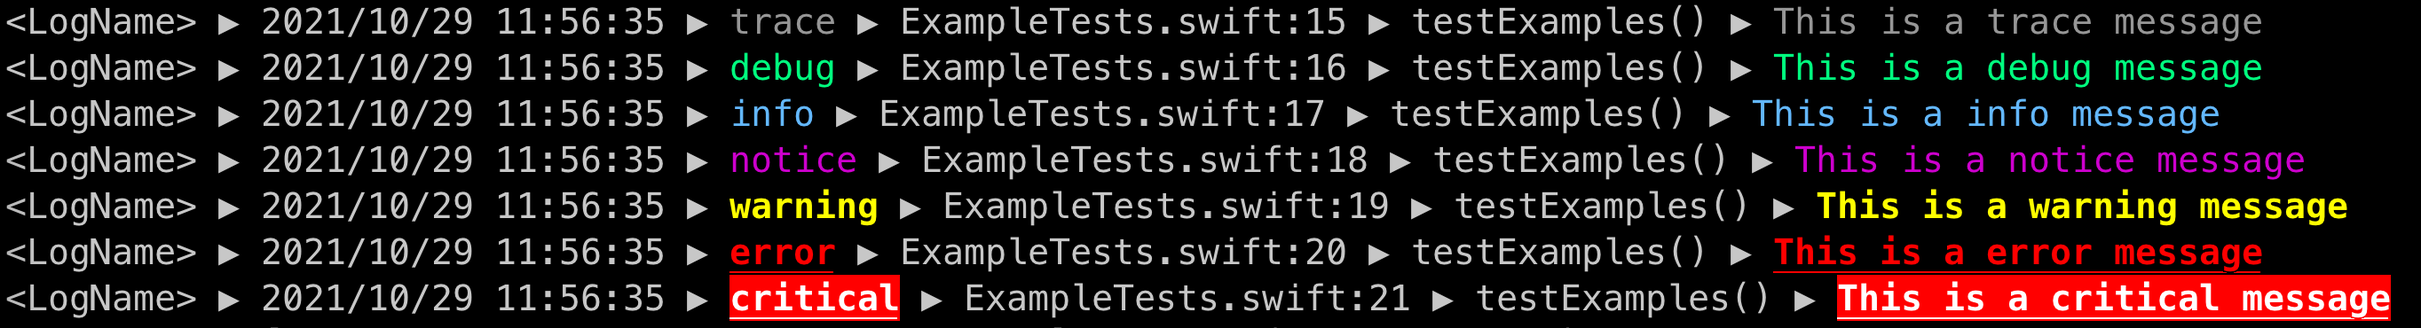
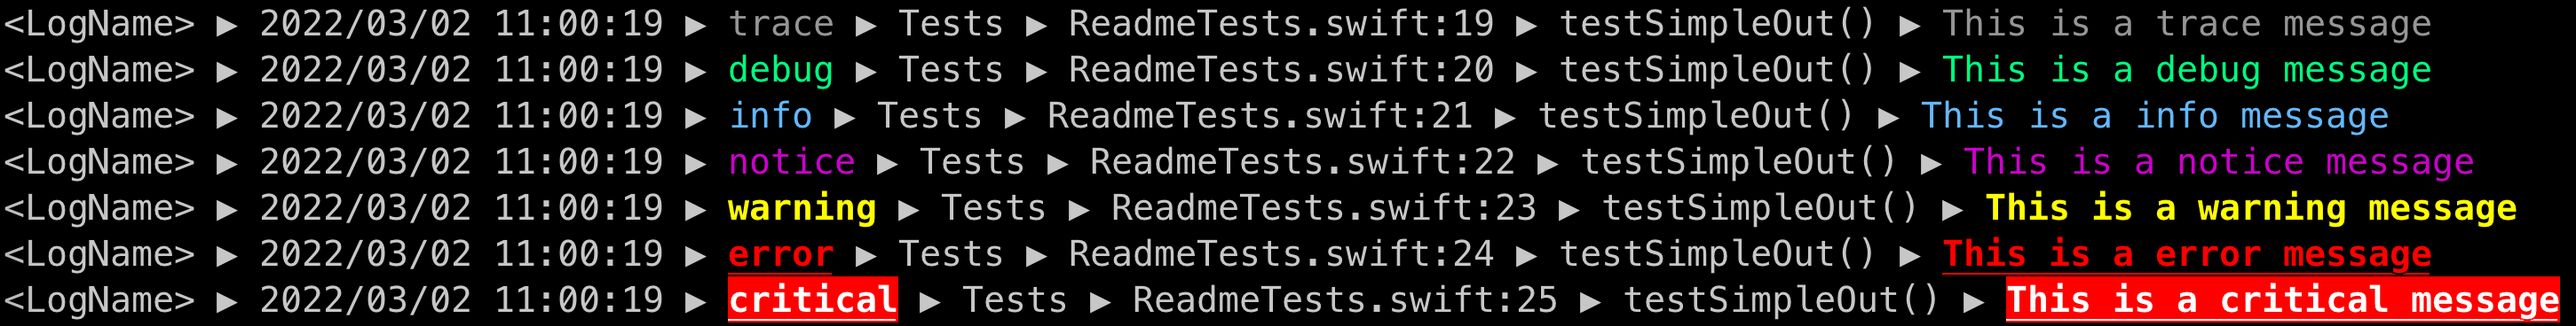
[DOC] : update string interpolation README

diff --git a/Tests/ReadmeTests.swift b/Tests/ReadmeTests.swift
@@ -1,0 +1,81 @@
+//
+// Created by Mengyu Li on 2022/3/2.
+//
+
+@testable import Senna
+import XCTest
+
+final class ReadmeTests: XCTestCase {
+    func testSimpleOut() {
+        // create sink
+        let sink = StandardSink.out()
+        // create formation
+        let formation = Formation.standard
+        // create log
+        let logger = Logger(label: "LogName") {
+            Handler(name: $0, sink: sink, formation: formation, logLevel: .trace)
+        }
+        // do some logs
+        logger.trace("This is a trace message")
+        logger.debug("This is a debug message")
+        logger.info("This is a info message")
+        logger.notice("This is a notice message")
+        logger.warning("This is a warning message")
+        logger.error("This is a error message")
+        logger.critical("This is a critical message")
+    }
+
+    func testMetaData() {
+        // create sink
+        let sink = StandardSink.out()
+        // create formation
+        let formation = Formation.standard
+        // create log
+        var logger = Logger(label: "LogName") {
+            Handler(name: $0, sink: sink, formation: formation, logLevel: .trace)
+        }
+        logger[metadataKey: "UserID"] = .stringConvertible(9527)
+        logger.info("message with logger meta data")
+        logger.info("message with both logger and message meta data", metadata: ["UserName": .string("L1MeN9Yu")])
+    }
+
+    func testStandardXcode() {
+        // create sink
+        let sink = StandardSink.out()
+        // create formation
+        let formation = Formation.standardXcode
+        // create log
+        var logger = Logger(label: "LogName") {
+            Handler(name: $0, sink: sink, formation: formation, logLevel: .trace)
+        }
+
+        logger.trace("This is a trace message")
+        logger.debug("This is a debug message")
+        logger.info("This is a info message")
+        logger.notice("This is a notice message")
+        logger.warning("This is a warning message")
+        logger.error("This is a error message")
+        logger.critical("This is a critical message")
+
+        logger[metadataKey: "UserID"] = .stringConvertible(9527)
+        logger.info("message with logger meta data")
+        logger.info("message with both logger and message meta data", metadata: ["UserName": .string("L1MeN9Yu")])
+    }
+
+    func testStringInterpolation() {
+        let sink = StandardSink.out()
+        let formation = Formation.standard
+        var logger = Logger(label: "LogName") {
+            Handler(name: $0, sink: sink, formation: formation, logLevel: .trace)
+        }
+        logger[metadataKey: "UserID"] = .stringConvertible(9527)
+        #if DEBUG
+        let privacy = Privacy.public
+        #else
+        let privacy = Privacy.private
+        #endif
+        // default is private
+        logger.senna.notice("the user name is \("L1MeN9Yu")")
+        logger.senna.notice("the user name is \("L1MeN9Yu", privacy: privacy)")
+    }
+}

diff --git a/README.md b/README.md
@@ -20,6 +20,7 @@
 * Builtin output target : `[stdout/stderr,file,oslog,syslog]`
 * ANSI escape code
 * Complete customizable for text out
+* Support string interpolation the same as [Apple's Unified Logging System](https://developer.apple.com/documentation/os/logging/generating_log_messages_from_your_code)
 * 100% Code Coverage
 
 ## Examples
@@ -143,6 +144,33 @@ See [Printer](Sources/Implements/Printer.swift) and [Printable](Sources/Protocol
 The `Separator` string is used for split log message's component.
 The `Formation.standard`'s separator is `" ▶ "`.
 
+### Apple's Unified Logging System
+
+Senna reimplement the string interpolation behavior of [Apple's Unified Logging System](https://developer.apple.com/documentation/os/logging/generating_log_messages_from_your_code)
+
+```swift
+let sink = StandardSink.out()
+let formation = Formation.standard
+var logger = Logger(label: "LogName") {
+    Handler(name: $0, sink: sink, formation: formation, logLevel: .trace)
+}
+logger[metadataKey: "UserID"] = .stringConvertible(9527)
+#if DEBUG
+let privacy = Privacy.public
+#else
+let privacy = Privacy.private
+#endif
+// default is private
+logger.senna.notice("the user name is \("L1MeN9Yu")")
+logger.senna.notice("the user name is \("L1MeN9Yu", privacy: privacy)")
+```
+
+Terminal out :
+
+![](Documentations/README/Resources/stdout.string.interpolation.png)
+
+see [LoggerSennaTests.swift](Tests/LoggerSennaTests.swift) for more usages.
+
 ## Installation
 
 ### Swift Package Manager
@@ -151,7 +179,7 @@ Add the following to your `Package.swift` file:
 
 ```swift
 dependencies: [
-    .package(url: "https://github.com/L1MeN9Yu/Senna.git", from: "2.5.0")
+    .package(url: "https://github.com/L1MeN9Yu/Senna.git", from: "3.0.0")
 ]
 ```
 
@@ -161,6 +189,7 @@ dependencies: [
 * [swift-log-format-and-pipe](https://github.com/Adorkable/swift-log-format-and-pipe)
 * [spdlog](https://github.com/gabime/spdlog)
 * [Rainbow](https://github.com/onevcat/Rainbow)
+* [Logging](https://github.com/shaps80/Logging)
 
 ## License
 
